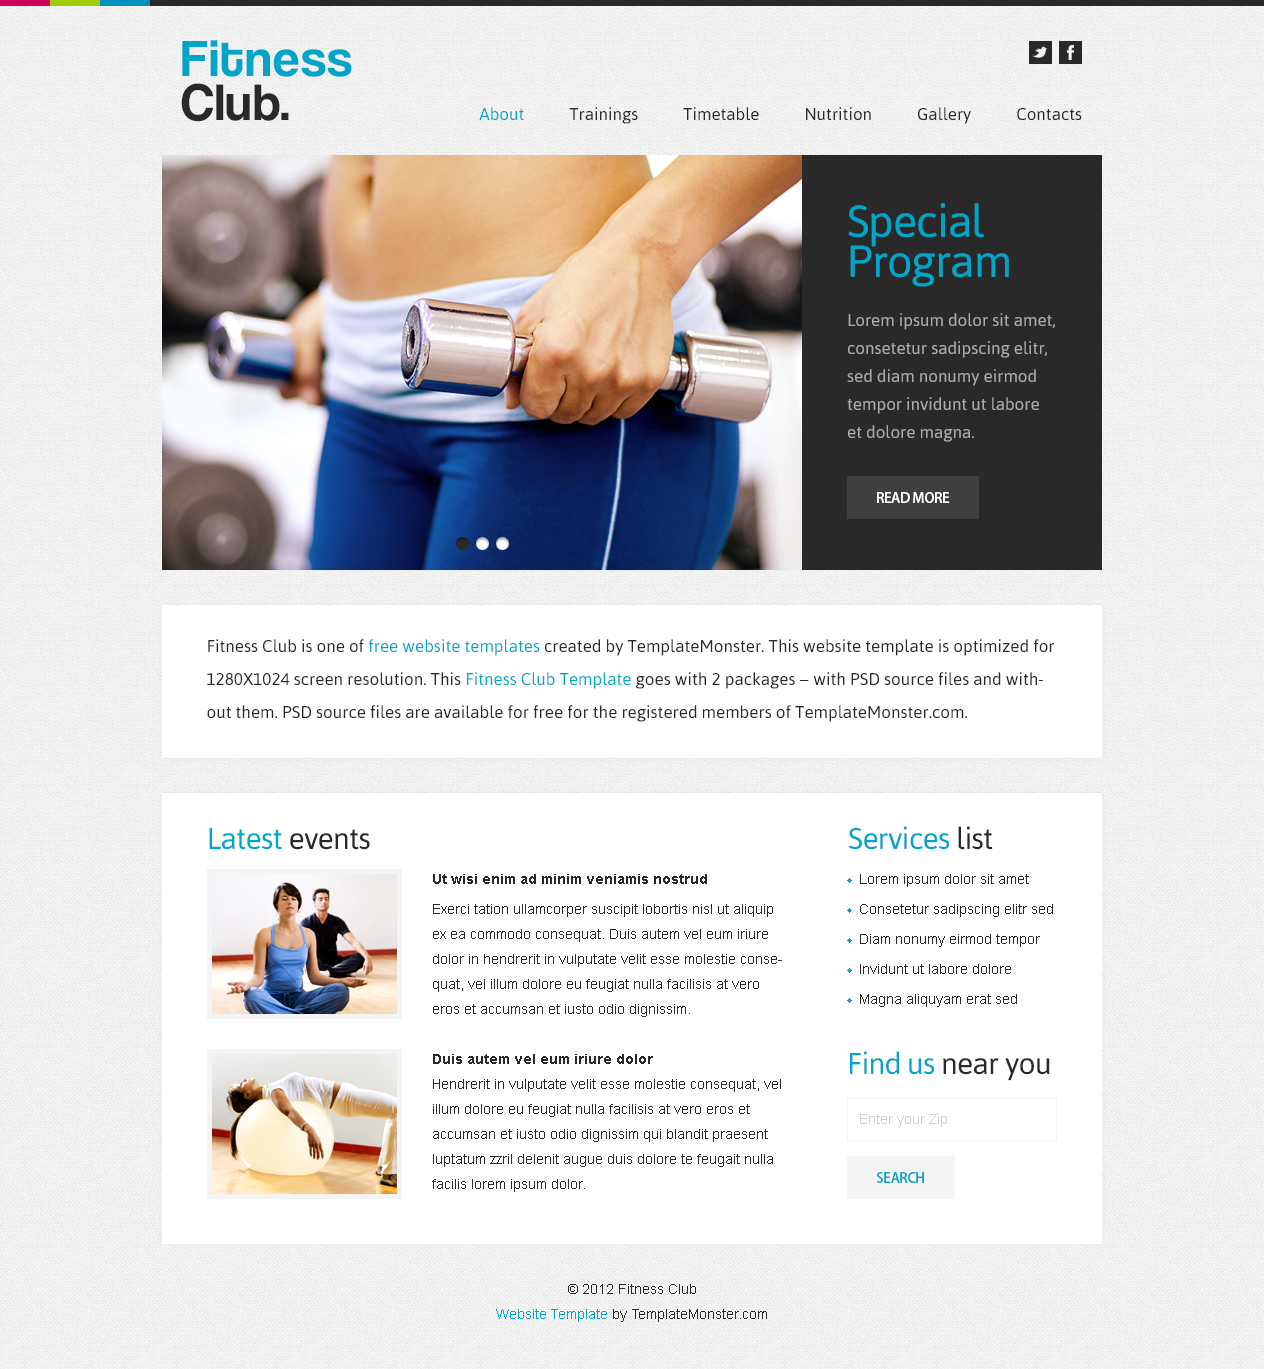
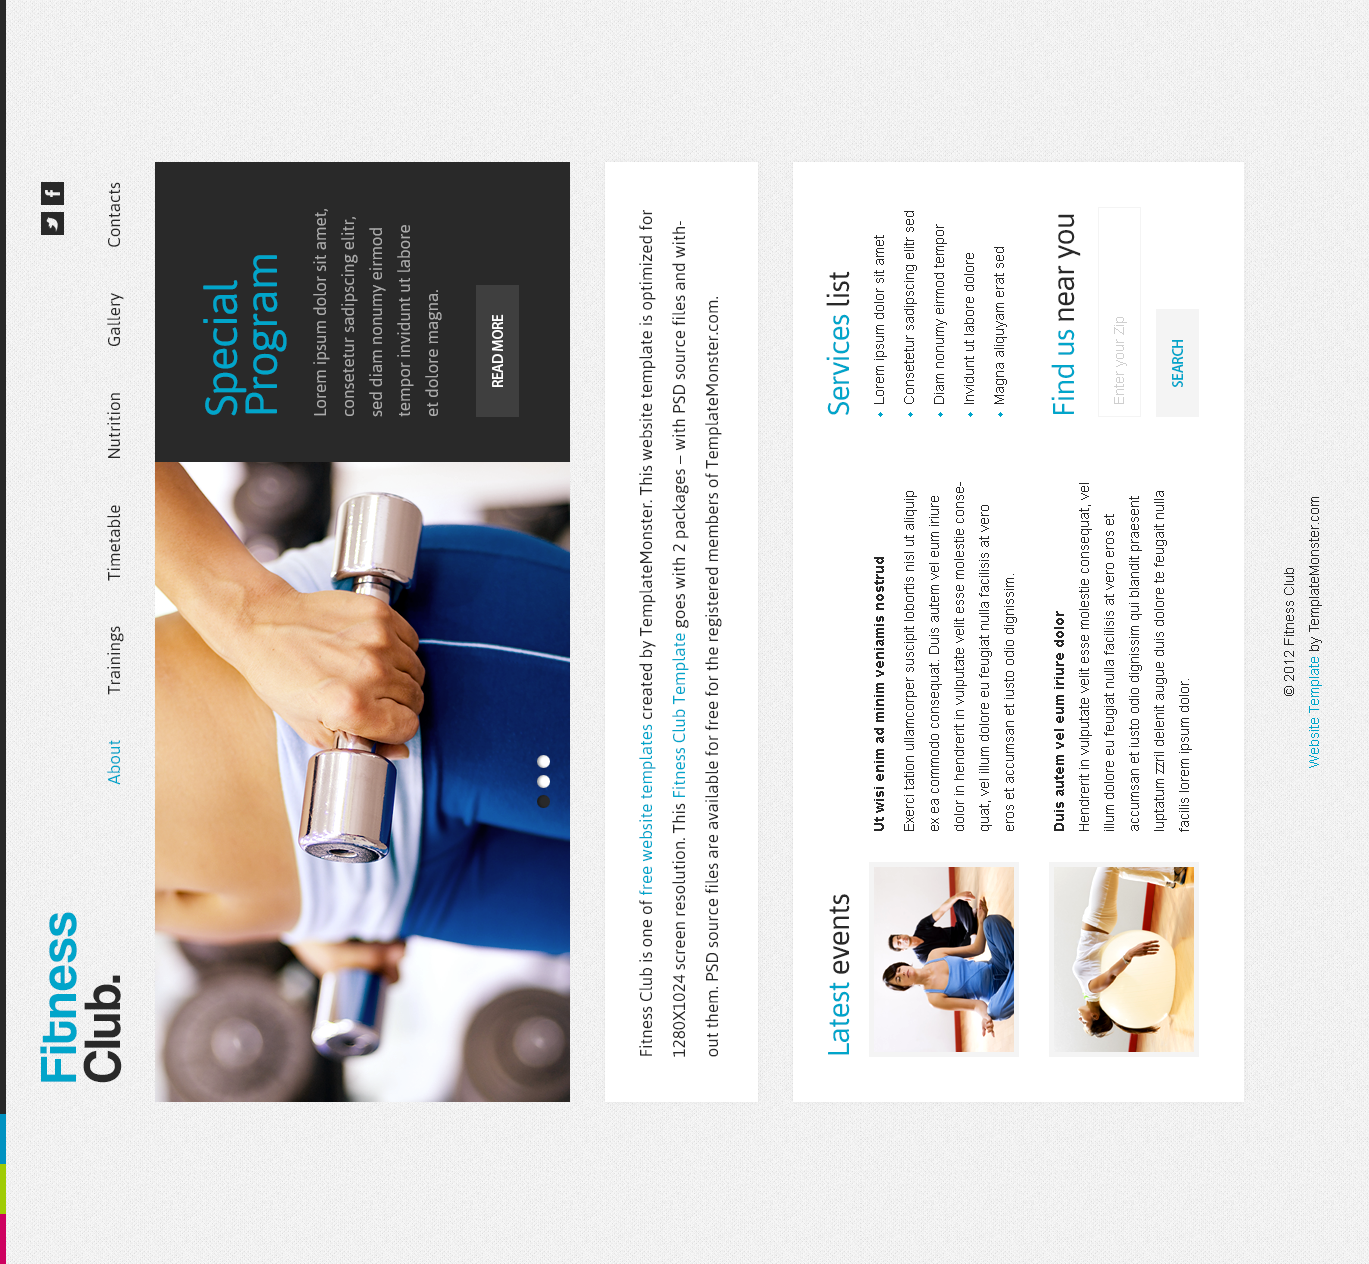
Added files via upload

diff --git a/css/all.css b/css/all.css
@@ -15,13 +15,12 @@ body{
 }
 .wrap{
 	width: 900px;
-	height: 1400px;
 	margin-left: auto;
 	margin-right: auto;
 	position: relative;
 }
 .header{
-	width: 900px;
+	width: 100%;
 	height: 150px;
 	background-image: url(../images/bg_html.jpg);
     border-image-slice: 100% 1;
@@ -31,7 +30,7 @@ body{
 	position: relative;
 }
 .logo{
-	width: 200px;
+	width: 22%;
 }
 .logo h1{
 	position: absolute;
@@ -46,7 +45,7 @@ body{
 	background: url(../images/logo.png);
 }
 .menu{
-	width: 600px;
+	width: 66%;
 	margin-left: 290px;
 
 }
@@ -77,14 +76,13 @@ body{
 	opacity: 0.5;
 }
 .content{
-	width: 900px;
 	position: relative;
 }
 .picture a:hover{
 	opacity: 0.5;
 }
 .introduction{
-	width: 260px;
+	width: 30%;
 	height: 415px;
 	background: #222222;
 	position: absolute;
@@ -127,7 +125,6 @@ body{
 	background: #777777;
 }
 .blank{
-	width: 900px;
 	height: 50px;
 	background-image: url(../images/bg_html.jpg);
     border-image-slice: 100% 1;
@@ -161,7 +158,6 @@ body{
 	opacity: 0.5;
 }
 .blank2{
-	width: 900px;
 	height: 50px;
 	background-image: url(../images/bg_html.jpg);
     border-image-slice: 100% 1;
@@ -172,14 +168,14 @@ body{
 	top: 615px;
 }
 .shop{
-	width: 900px;
+	width: 100%;
 	height: 450px;
 	position: absolute;
 	top: 665px;
 	background: white;
 }
 .event{
-	width: 600px;
+	width: 66%;
 	height: 450px;
 }
 .event h3{
@@ -229,7 +225,7 @@ body{
 	padding-right: 20px;
 }
 .service{
-	width: 300px;
+	width: 33%;
 	height: 250px;
 	position: absolute;
 	top: 0;
@@ -266,7 +262,7 @@ body{
 	opacity: 0.5;
 }
 .search{
-	width: 300px;
+	width: 33%;
 	height: 200px;
 	position: absolute;
 	bottom: 0;
@@ -314,7 +310,7 @@ body{
 	background: #666666;
 }
 .footer{
-	width: 900px;
+	width: 100%;
 	height: 150px;
 	background-image: url(../images/bg_html.jpg);
     border-image-slice: 100% 1;
@@ -322,8 +318,7 @@ body{
     border-image-outset: initial;
     border-image-repeat: initial;
 	position: absolute;
-	bottom: 0;
-	left: 0;
+	top: 1300px;
 }
 .footer p{
 	padding-top: 10px;
@@ -336,4 +331,177 @@ body{
 }
 .footer  a:hover{
 	opacity: 0.5;
+}
+@media only screen and (max-width: 768px){
+.wrap{
+	width:100%;
+	margin:0px 0 0 0;
+	position: relative;
+}
+.menu{
+	position: absolute;
+	width: 80%;
+	top:50px;
+	margin-left: 10px;
+}
+.menu li{
+	padding-left: 10px;		
+}
+.picture img{
+	width: 100%;
+	height: 415px;
+	padding-top: 20px;
+}
+.introduction{
+	width: 100%;
+	height: 280px;
+	position: absolute;
+	left: 0;
+	top: 430px;
+}
+.blank{
+	height: 0;
+}
+.summary{
+	position: absolute;
+	top: 710px;
+	height: 170px;
+	background: white;
+	border-bottom:2px black solid;
+}
+.blank2{
+	height: 0;
+}
+.shop{
+	height: 680px;
+	position: absolute;
+	top: 885px;
+	background: white;
+}
+.container2 h4{
+	margin-top: 40px;
+}
+.event{
+	width: 100%;
+	height: 450px;
+	border-bottom:2px black solid;
+}
+.service{
+	width: 100%;
+	position: absolute;
+	top: 440px;
+}
+.service ul{
+	padding-left: 40px;
+
+} 
+.search{
+	width: 300px;
+	height: 200px;
+	position: absolute;
+	top: 455px;
+	right: 0;
+}
+.footer{
+	position: absolute;
+	top: 1700px;
+}
+}
+@media only screen and (max-width: 480px) {
+body{
+	height: 0;
+}	
+.wrap{
+	width:100%;
+	margin:0px 0 0 0;
+	position: relative;
+}
+.header{
+	width: 100%;
+}
+.logo{
+	margin-left: auto;
+	margin-right: auto;
+	width: 100%;
+}
+.menu{
+	width: 100%;
+	margin-left: 0;
+	margin-top: 60px;
+}
+.menu li{
+	padding-left: 0px;	
+	padding-bottom: 15px;
+	float: none;
+	margin-top: 20px;	
+	border-bottom:1px black solid;
+}
+.picture img{
+	height: 0;
+}
+.introduction{
+	width: 100%;
+	height: 350px;
+	position: absolute;
+	left: 0;
+	top: 300px;
+}
+.contact img{
+	height: 0;
+}
+.summary{
+	position: absolute;
+	top: 650px;
+	height: 300px;
+	background: white;
+	border-bottom:1px black solid;
+}
+.summary p{
+	margin-top: 20px;
+	margin-left: 20px;
+	margin-right: 20px;
+	margin-bottom: 20px;
+}
+.shop{
+	height: 1400px;
+	position: absolute;
+	top: 951px;
+	background: white;
+}
+.event{
+	width: 100%;
+	height: 800px;
+	border-bottom:1px black solid;
+}
+.container a{
+	float: none;
+}
+.container h4{
+	margin-left: 20px;
+}
+.container p{
+	margin-left: 20px;
+	margin-bottom: 20px;
+}
+.container2 a{
+	float: none;
+}
+.container2 h4{
+	margin-top: 0px;
+}
+.service{
+	width: 100%;
+	position: absolute;
+	top: 820px;
+	border-bottom:1px black solid;
+}
+.search{
+	width: 100%;
+	position: absolute;
+	top: 1100px;
+}
+.footer{
+	position: absolute;
+	top: 2400px;
+}
 }
